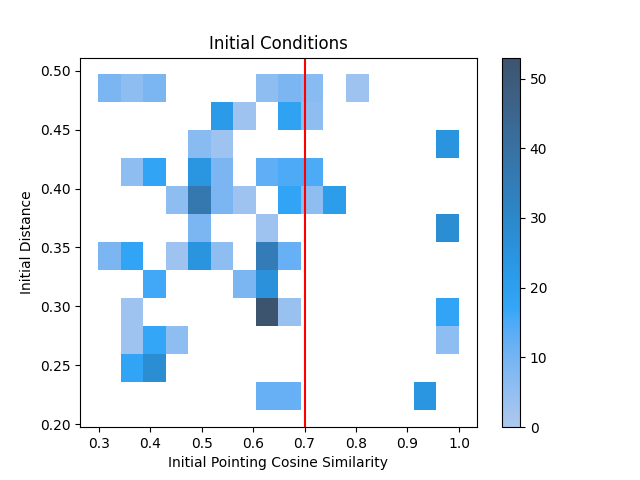
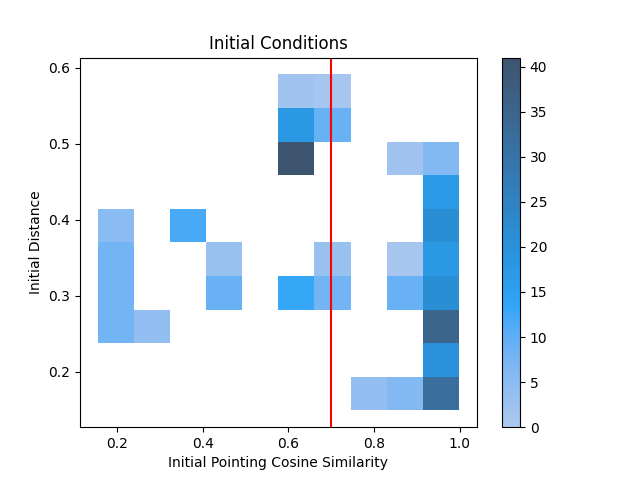
Adding relu activation

diff --git a/viz/viz_succes_plot.py b/viz/viz_succes_plot.py
@@ -2,7 +2,7 @@ import pandas as pd
 import seaborn as sns
 
 import matplotlib.pyplot as plt
-
+import numpy as np
 #read csv file
 def read_csv_file(file_name):
     df = pd.read_csv(file_name)
@@ -31,11 +31,27 @@ def plot_init_conditions(x, y, x_label, y_label, x_val, y_val):
     plt.ylabel(y_label)
     plt.title("Initial Conditions")
     #save plot
-    plt.axvline(x_val, color='red')
-    if y_val != 0:
+    if x_val:
+        plt.axvline(x_val, color='red')
+    if y_val:
         plt.axhline(y_val, color='red')
     plt.savefig('init_conditions{}{}.png'.format(x_label, y_label))
 
+def plot_final_conditions(x, y, x_label, y_label, x_val, y_val):
+    plt.figure()
+    temp_df = df[[x,y]]
+    sns.histplot(
+        temp_df, x=x, y=y,
+        stat='count', cbar = True)
+    plt.xlabel(x_label)
+    plt.ylabel(y_label)
+    plt.title("Final Conditions")
+    #save plot
+    if x_val:
+        plt.axvline(x_val, color='red')
+    if y_val:
+        plt.axhline(y_val, color='red')
+    plt.savefig('final_conditions{}{}.png'.format(x_label, y_label))
 #     plt.show()
 
 def plot_violin(df, x, label, title, val):
@@ -43,7 +59,8 @@ def plot_violin(df, x, label, title, val):
     sns.violinplot(x=df[x], cut=0, inner='quart')
     plt.xlabel(label)
     plt.title(title)
-    plt.axvline(val, color='red')
+    if val:
+        plt.axvline(val, color='red')
     plt.savefig('violin{}.png'.format(label))
 #     plt.show()
 
@@ -54,32 +71,43 @@ if __name__ == '__main__':
     df['init_perp_cosine_sim_abs'] = df['init_perp_cosine_sim'].abs()
     df['pointing_cosine_sim_error_abs'] = df['pointing_cosine_sim_error'].abs()
     df['perpendicular_cosine_sim_error_abs'] = df['perpendicular_cosine_sim_error'].abs()
+
     #print total number of rows
     # # print(len(df))
     # #print success rate
-    # print(df['is_success'].value_counts()/len(df))
-    # # df = df[df['is_success'] == True]
-    # #print df columns
-    # #just keep the columns you want
-    # # plot_success(df)
-    # #Calculate quat distane between ideal and start
-    #
-    # #Group this by success
-    # plot_init_conditions('init_point_cosine_sim_abs', 'init_distance', 'Initial Pointing Cosine Similarity', 'Initial Distance', 0.7, 0)
-    # plot_init_conditions('init_perp_cosine_sim_abs', 'init_distance', 'Initial Perpendicular Cosine Similarity', 'Initial Distance', 0.7, 0)
-    # plot_init_conditions('init_point_cosine_sim_abs', 'init_perp_cosine_sim_abs', 'Initial Pointing Cosine Similarity', 'Initial Perpendicular Cosine Similarity', 0.7, 0.7)
-    #
-    # plot_success(df)
-    # plot_violin(df, 'euclidean_error', 'Euclidean Error', 'Final Conditions', 0.05)
-    # plot_violin(df, 'pointing_cosine_sim_error_abs', 'Pointing Cosine Similarity', 'Final Conditions', 0.7)
-    # plot_violin(df, 'perpendicular_cosine_sim_error_abs', 'Perpendicular Cosine Similarity', 'Final Conditions', 0.7)
-    import numpy as np
-    var = np.exp(-2.3)
-    b = np.random.normal(0, var, 1000)
-    #plot
-    plt.figure()
-    # sns.histplot(b, stat='count', kde=True)
-    #
-    c = np.tanh(b)/10
-    sns.histplot(c, stat='count', kde=True)
-    plt.show()
+    print(df['is_success'].value_counts()/len(df))
+    # df = df[df['is_success'] == True]
+    #print df columns
+    #just keep the columns you want
+    plot_success(df)
+    #Calculate quat distane between ideal and start
+
+    #Group this by success
+    plot_init_conditions('init_angular_error', 'init_distance', 'Initial Angular Error', 'Initial Distance', None, None)
+    plot_init_conditions('init_point_cosine_sim_abs', 'init_distance', 'Initial Pointing Cosine Similarity', 'Initial Distance', 0.7, 0)
+    plot_init_conditions('init_perp_cosine_sim_abs', 'init_distance', 'Initial Perpendicular Cosine Similarity', 'Initial Distance', 0.7, 0)
+    plot_init_conditions('init_point_cosine_sim_abs', 'init_perp_cosine_sim_abs', 'Initial Pointing Cosine Similarity', 'Initial Perpendicular Cosine Similarity', 0.7, 0.7)
+    #sfsdfa
+    plot_final_conditions('pointing_cosine_sim_error_abs', 'euclidean_error', 'Pointing Cosine Similarity',
+                         'Distance', 0.7, 0)
+    plot_final_conditions('perpendicular_cosine_sim_error_abs', 'euclidean_error', 'Perpendicular Cosine Similarity',
+                         'Distance', 0.7, 0)
+    plot_final_conditions('pointing_cosine_sim_error_abs', 'perpendicular_cosine_sim_error_abs', 'Pointing Cosine Similarity',
+                         'Perpendicular Cosine Similarity', 0.7, 0.7)
+    #sdfsd
+
+    plot_success(df)
+    plot_violin(df, 'euclidean_error', 'Euclidean Error', 'Final Conditions', 0.05)
+    plot_violin(df, 'pointing_cosine_sim_error_abs', 'Pointing Cosine Similarity', 'Final Conditions', 0.7)
+    plot_violin(df, 'perpendicular_cosine_sim_error_abs', 'Perpendicular Cosine Similarity', 'Final Conditions', 0.7)
+    plot_violin(df, 'angular_error', 'Angular Error', 'Final Conditions', None)
+    # import numpy as np
+    # var = np.exp(-2.3)
+    # b = np.random.normal(0, var, 1000)
+    # #plot
+    # plt.figure()
+    # # sns.histplot(b, stat='count', kde=True)
+    # #
+    # c = np.tanh(b)/10
+    # sns.histplot(c, stat='count', kde=True)
+    # plt.show()

diff --git a/algo/PPOLSTMAE/policies.py b/algo/PPOLSTMAE/policies.py
@@ -221,6 +221,8 @@ class ActorCriticPolicySquashed(BasePolicy):
         self.action_net, self.log_std = self.action_dist.proba_distribution_net(
             latent_dim=latent_dim_pi, log_std_init=self.log_std_init
         )
+        #multiply action net weight by 10
+        self.action_net.weight.data *= 10
         # if isinstance(self.action_dist, DiagGaussianDistribution):
         #     self.action_net, self.log_std = self.action_dist.proba_distribution_net(
         #         latent_dim=latent_dim_pi, log_std_init=self.log_std_init

diff --git a/args/args.py b/args/args.py
@@ -75,7 +75,7 @@ args = {
         },
         'action_scale': {
             'type': float,
-            'default': 0.1,
+            'default': 0.2,
             'help': 'scaling factor for the action space'
         },
         'action_dim': {
@@ -108,7 +108,7 @@ args = {
         },
         'curriculum_distances': {
             'type': tuple,
-            'default': ( 0.5,)
+            'default': (0.5,)
         },
         'curriculum_level_steps': {
             'type': tuple,

diff --git a/training_files/train_ppo_lstm.py b/training_files/train_ppo_lstm.py
@@ -76,6 +76,7 @@ if __name__ == "__main__":
                 args_policy['emb_size'] // 2],
             pi=[args_policy['emb_size'] * 2, args_policy['emb_size'],
                 args_policy['emb_size'] // 2]),
+        "activation_fn": th.nn.ReLU,
         "share_features_extractor": False,
         "n_lstm_layers": 1,
         "features_dim_critic_add": 2, #Assymetric critic
